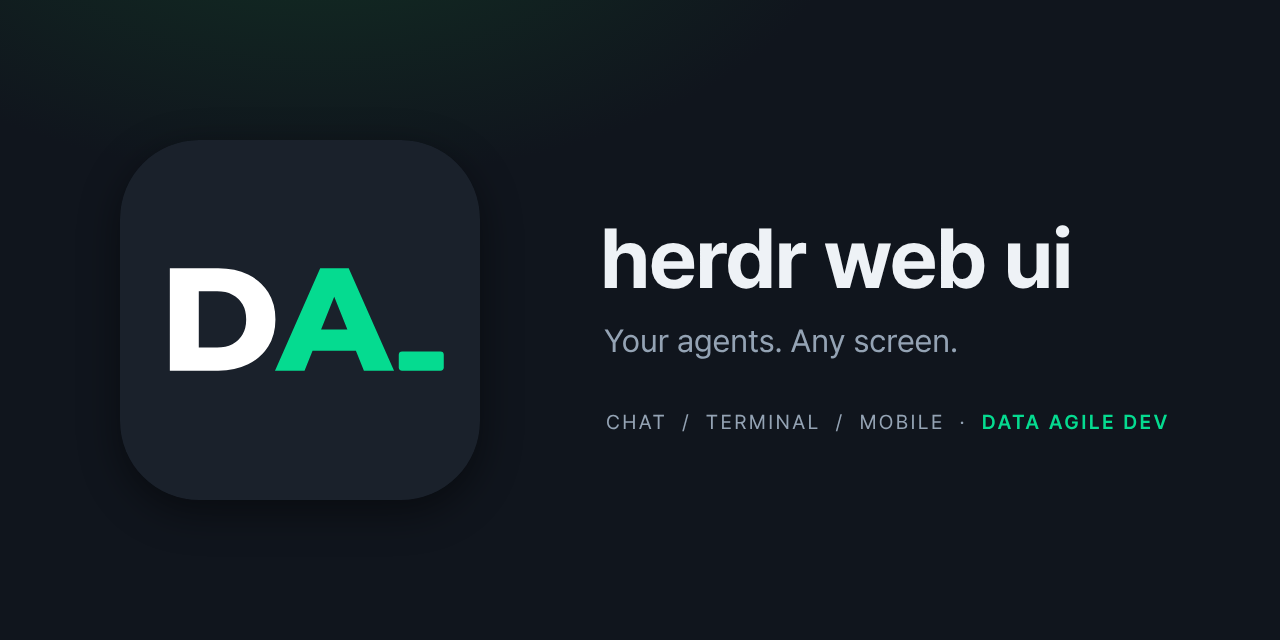
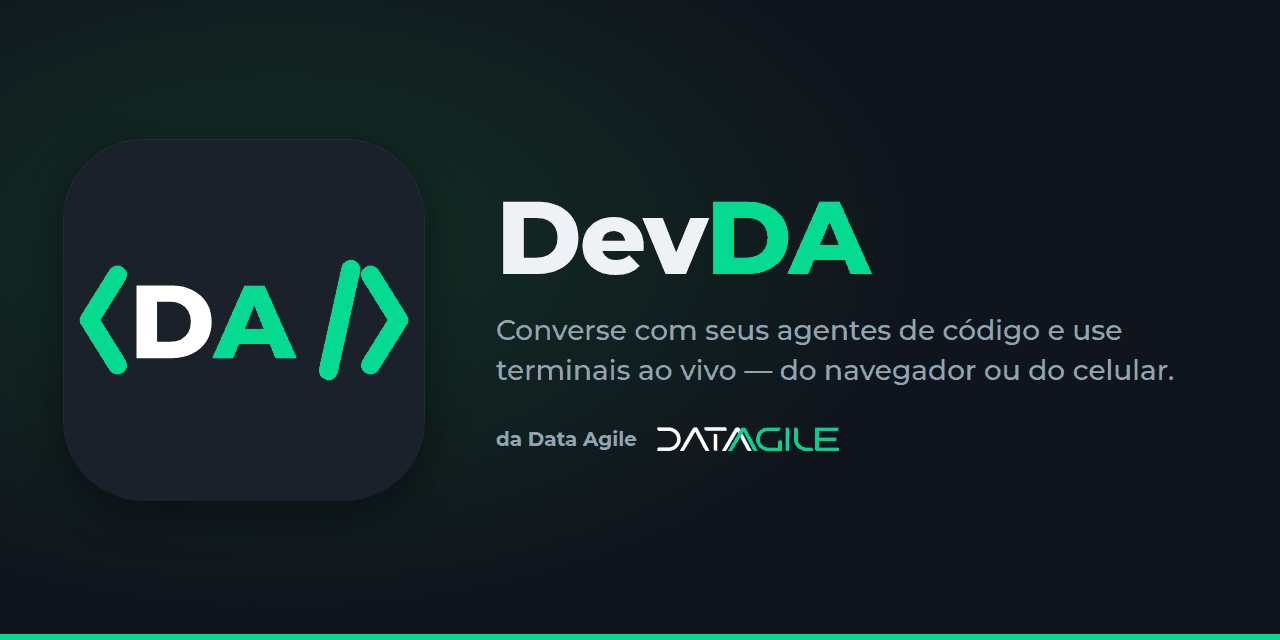
feat(marca): imagem de compartilhamento DevDA; teste do celular confere o nome na faixa de abas
A imagem de compartilhamento (og:image) passa a ser o cartão DevDA (ícone <DA/>, nome,
frase em pt-BR e marca Data Agile no navy do portal), aprovado pelo usuário.

O split-regression ainda conferia o título no topo do celular, que saiu no #12: a
faixa de abas é que nomeia o painel. Já falhava na main.

diff --git a/scripts/split-regression.ts b/scripts/split-regression.ts
@@ -291,8 +291,9 @@ try {
   assert.equal(await phone.locator(".terminal-stack").count(), 1, "a phone draws one pane");
   assert.equal(await phone.locator(".tab-strip-panes-count").first().innerText(), "1/2", "the tab's picker says 1/2");
   assert.equal(await phone.evaluate(() => document.documentElement.scrollWidth <= window.innerWidth), true, "nothing overflows sideways");
-  const title = await phone.locator(".context-title-text").boundingBox();
-  assert.ok(title && title.width >= 40, "the header keeps room for the pane's title");
+  // a phone's header is icons only (no title): the tab strip's open tab names the pane
+  const named = await phone.locator(".tab-strip-item.is-active .tab-strip-label").boundingBox();
+  assert.ok(named && named.width >= 40, "the open tab in the strip names the pane");
   await shot(phone, "phone-390");
   // at phone width Split stays in the header, icon only
   assert.equal(await phone.locator(".header-split").isVisible(), true, "the header's own Split button is there on a phone");

diff --git a/index.html b/index.html
@@ -13,7 +13,7 @@
     <meta property="og:image" content="https://raw.githubusercontent.com/dataagile/herdr-web-ui/main/public/social-preview.png" />
     <meta property="og:image:width" content="1280" />
     <meta property="og:image:height" content="640" />
-    <meta property="og:image:alt" content="DevDA social preview card" />
+    <meta property="og:image:alt" content="DevDA: converse com seus agentes de código e use terminais ao vivo" />
     <meta name="twitter:card" content="summary_large_image" />
     <meta name="theme-color" content="#181613" />
     <meta name="color-scheme" content="dark" />

diff --git a/docs/brand/README.md b/docs/brand/README.md
@@ -10,7 +10,7 @@ used by the Portal Dev Data Agile, which signs people in and opens this app.
 - Exports in `public/`: `favicon.ico` (32), `favicon.png` (32), `apple-touch-icon.png` (180,
   square), `icons/icon-192.png`, `icons/icon-512.png` (any), `icons/icon-maskable-{192,512}.png`
   (mark inside the 80% safe zone), `icons/badge-96.png` (white single-ink notification badge),
-  `social-preview.png` (1280 × 640 Open Graph image; still the old artwork, pending a new one).
+  `social-preview.png` (1280 × 640 Open Graph image; DevDA card: the <DA/> icon, "DevDA", a pt-BR tagline and the Data Agile wordmark on the portal navy; source HTML kept outside the repo, rendered at 1280 × 640).
   `icon-maskable-192.png` is the 512 maskable downscaled (the design system ships only 512).
 - The full design system (tokens, components, rules for both products) lives in
   [`design-system/`](../../design-system/INDEX.md).
